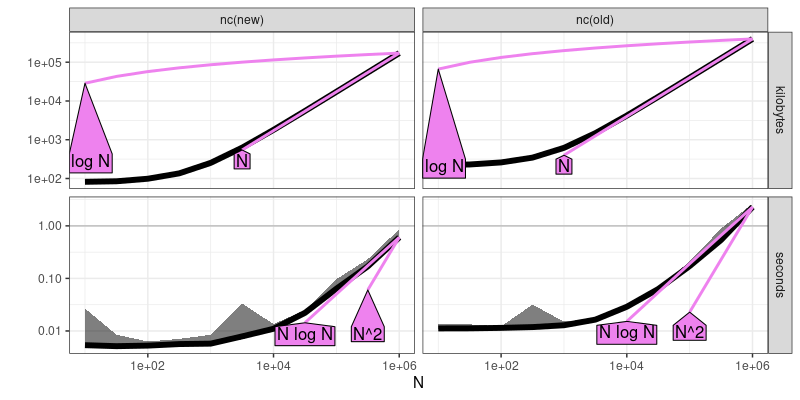
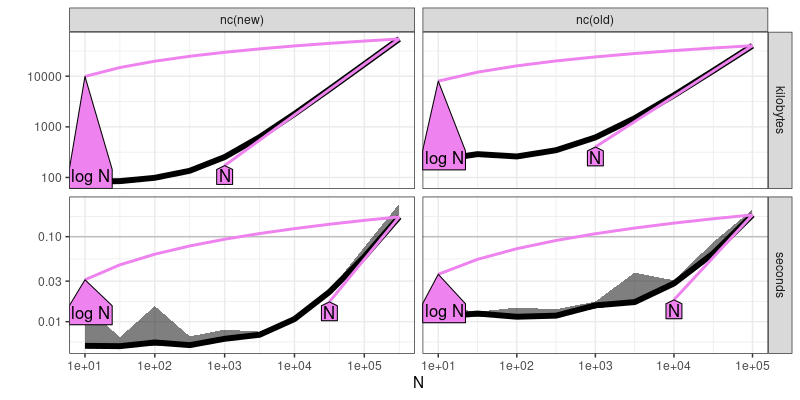
compare with melt

diff --git a/_posts/2024-01-03-reshape-performance.md b/_posts/2024-01-03-reshape-performance.md
@@ -291,7 +291,6 @@ Below we measure asymptotic time/memory usage for the two versions,
 
 
 ```r
-seconds.limit <- 1
 (atime.result <- atime::atime(
   N=10^seq(1, 6, by=0.5),
   setup={
@@ -299,17 +298,13 @@ seconds.limit <- 1
     iris.wide.N <- iris.wide[row.numbers]
   }, 
   expr.list=nc.expr.list,
-  seconds.limit=seconds.limit))  
+  seconds.limit=0.1))
 ```
 
 ```
-## Warning: Some expressions had a GC in every iteration; so filtering is disabled.
-```
-
-```
-## atime list with 22 measurements for
-## nc(new)(N=10 to 1e+06)
-## nc(old)(N=10 to 1e+06)
+## atime list with 19 measurements for
+## nc(new)(N=10 to 316227.766016838)
+## nc(old)(N=10 to 1e+05)
 ```
 
 ```r
@@ -318,7 +313,7 @@ plot(atime.result)
 
 ![plot of chunk atimeResult](/assets/img/2024-01-03-reshape-performance/atimeResult-1.png)
 
-The result aboe shows that the new version of nc uses less time and
+The result above shows that the new version of nc uses less time and
 memory, by a constant factor (same asymptotic slopes on log-log plot).
 Below we add asymptotic reference lines, to show the estimated asymptotic time and memory complexity, 
 
@@ -328,9 +323,9 @@ Below we add asymptotic reference lines, to show the estimated asymptotic time a
 ```
 
 ```
-## references_best list with 44 measurements, best fit complexity:
-## nc(old) (N kilobytes, N log N seconds)
-## nc(new) (N kilobytes, N log N seconds)
+## references_best list with 38 measurements, best fit complexity:
+## nc(old) (N kilobytes, N seconds)
+## nc(new) (N kilobytes, N seconds)
 ```
 
 ```r
@@ -348,16 +343,17 @@ A third step/plot is computed below,
 
 
 ```r
-(atime.pred <- predict(atime.refs, seconds=seconds.limit, kilobytes=10000))
+(atime.pred <- predict(atime.refs, seconds=0.1, kilobytes=10000))
 ```
 
 ```
 ## atime_prediction object
 ##         unit expr.name unit.value         N
 ##       <char>    <char>      <num>     <num>
-## 1:   seconds   nc(old)          1 517652.88
-## 2: kilobytes   nc(old)      10000  24468.05
-## 3: kilobytes   nc(new)      10000  57627.11
+## 1:   seconds   nc(old)      1e-01  52117.07
+## 2:   seconds   nc(new)      1e-01 178807.34
+## 3: kilobytes   nc(old)      1e+04  24468.05
+## 4: kilobytes   nc(new)      1e+04  57627.11
 ```
 
 ```r
@@ -376,27 +372,62 @@ can handle a larger `N` for the given time/memory limit.
 
 ## Comparison with `data.table::melt`
 
+In this section, we explain how to compare nc with the computational requirements for
+`data.table::melt`. 
+The simplest method is to simply add another argument to `atime`, as in the code below.
+
 
 ```r
-meas.lang <- quote(measure(part,dim))
-lang.list <- list()
-meas.arg.list <- list(sep=".", pattern="(Sepal|Petal)[.](Width|Length)")
-for(meas.arg.name in names(meas.arg.list)){
-  this.lang <- meas.lang
-  this.lang[[meas.arg.name]] <- meas.arg.list[[meas.arg.name]]
-  out.name <- sprintf("measure(%s)", meas.arg.name)
-  lang.list[[out.name]] <- substitute(melt(wide.dt, measure.vars=M), list(M=this.lang))
-}
-lang.list
+(atime.melt <- atime::atime(
+  N=10^seq(1, 6, by=0.5),
+  setup={
+    row.numbers <- rep(1:nrow(iris), l=N)
+    iris.wide.N <- iris.wide[row.numbers]
+  }, 
+  expr.list=nc.expr.list,
+  melt=melt(iris.wide.N, measure.vars=measure(part, dim, pattern="(.*)[.](.*)")),
+  seconds.limit=0.1))
 ```
 
 ```
-## $`measure(sep)`
-## melt(wide.dt, measure.vars = measure(part, dim, sep = "."))
-## 
-## $`measure(pattern)`
-## melt(wide.dt, measure.vars = measure(part, dim, pattern = "(Sepal|Petal)[.](Width|Length)"))
+## atime list with 29 measurements for
+## melt(N=10 to 316227.766016838)
+## nc(new)(N=10 to 316227.766016838)
+## nc(old)(N=10 to 1e+05)
 ```
+
+```r
+plot(atime.melt)
+```
+
+![plot of chunk unnamed-chunk-8](/assets/img/2024-01-03-reshape-performance/unnamed-chunk-8-1.png)
+
+Because the curves in the plot above have the same asymptotic slope,
+that shows that melt uses the same asymptotic computational resources
+as nc (but melt is more efficient by a constant factor, which makes
+sense, because it is used by nc). 
+
+## Conclusions and Exercises
+
+In this post, we have shown how to use `atime` to compare asymptotic
+time and memory usage of R expressions that depend on some data size
+`N`. The two kinds of comparisons we explored were different versions
+of an R package (new and old version of nc), and different packages
+which implement the same computation (nc versus melt for
+reshape). Consider doing the exercises below, if you want practice
+using `atime`.
+
+* In the code above, we used `N` as the number of rows. Modify the
+  code so that `N` is used as the number of columns, and make the
+  analogous plots. Are the trends similar?
+* Another way of comparing melt to nc would be to add the melt code as
+  another expression in the list passed as the `expr.list` argument to
+  `atime`. Use `quote` to add another expression to `nc.expr.list`,
+  then re-run the comparison above between melt and nc. Is the result
+  the same as when you used the code above? It should be!
+* If you use `melt(measure.vars=measure(part,dim,sep="."))`, that is
+  use `sep` instead of `pattern` in `measure()`, is there any
+  difference in computational efficiency?
 
 ## Session info
 
